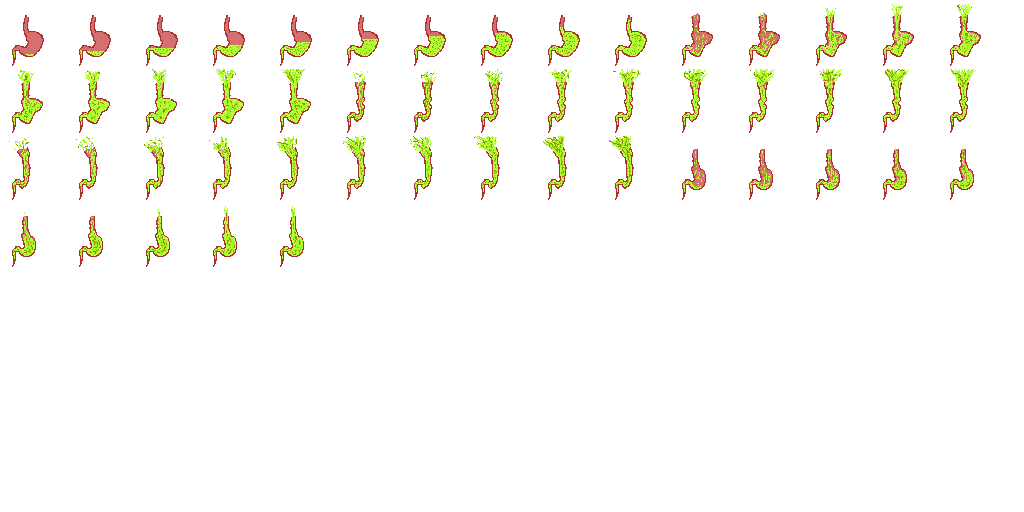
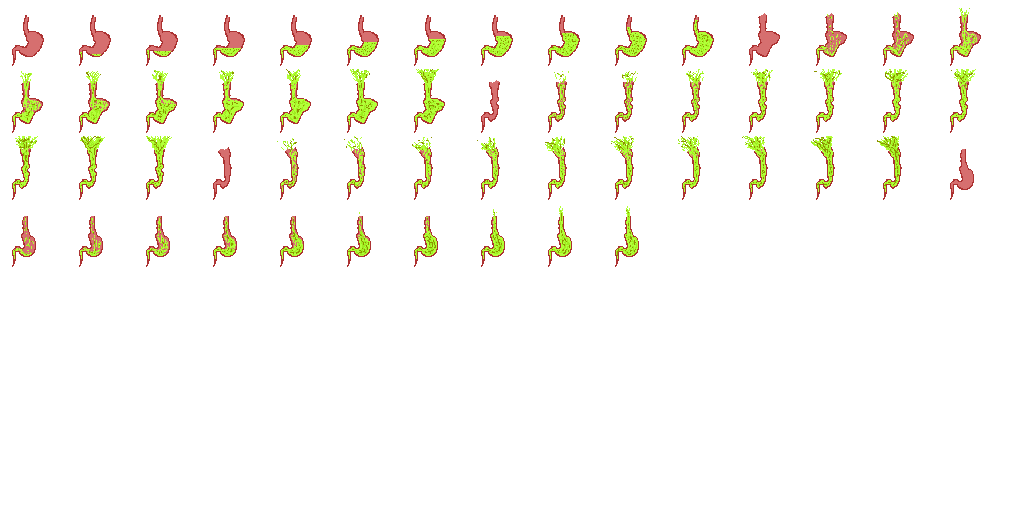
Make StomachMeter display completely empty state.

diff --git a/src/stomach-meter.js b/src/stomach-meter.js
@@ -16,51 +16,56 @@ define([
         this.fullness = 1; // 1=100%
         
         // Set up animations.
-        this.animations.add('idle10',  [0], 15);
-        this.animations.add('idle20',  [1], 15);
-        this.animations.add('idle30',  [2], 15);
-        this.animations.add('idle40',  [3], 15);
-        this.animations.add('idle50',  [4], 15);
-        this.animations.add('idle60',  [5], 15);
-        this.animations.add('idle70',  [6], 15);
-        this.animations.add('idle80',  [7], 15);
-        this.animations.add('idle90',  [8], 15);
-        this.animations.add('idle100', [9], 15);
+        this.animations.add('idle0',   [0], 15);
+        this.animations.add('idle10',  [1], 15);
+        this.animations.add('idle20',  [2], 15);
+        this.animations.add('idle30',  [3], 15);
+        this.animations.add('idle40',  [4], 15);
+        this.animations.add('idle50',  [5], 15);
+        this.animations.add('idle60',  [6], 15);
+        this.animations.add('idle70',  [7], 15);
+        this.animations.add('idle80',  [8], 15);
+        this.animations.add('idle90',  [9], 15);
+        this.animations.add('idle100', [10], 15);
         
-        this.animations.add('start-squeeze10',  [10], 15);
-        this.animations.add('start-squeeze20',  [11], 15);
-        this.animations.add('start-squeeze30',  [12], 15);
-        this.animations.add('start-squeeze40',  [13], 15);
-        this.animations.add('start-squeeze50',  [14], 15);
-        this.animations.add('start-squeeze60',  [15], 15);
-        this.animations.add('start-squeeze70',  [16], 15);
-        this.animations.add('start-squeeze80',  [17], 15);
-        this.animations.add('start-squeeze90',  [18], 15);
-        this.animations.add('start-squeeze100', [19], 15);
+        this.animations.add('start-squeeze0',   [11], 15);
+        this.animations.add('start-squeeze10',  [12], 15);
+        this.animations.add('start-squeeze20',  [13], 15);
+        this.animations.add('start-squeeze30',  [14], 15);
+        this.animations.add('start-squeeze40',  [15], 15);
+        this.animations.add('start-squeeze50',  [16], 15);
+        this.animations.add('start-squeeze60',  [17], 15);
+        this.animations.add('start-squeeze70',  [18], 15);
+        this.animations.add('start-squeeze80',  [19], 15);
+        this.animations.add('start-squeeze90',  [20], 15);
+        this.animations.add('start-squeeze100', [21], 15);
         
-        this.animations.add('squeeze10',  [20,30], 15);
-        this.animations.add('squeeze20',  [21,31], 15);
-        this.animations.add('squeeze30',  [22,32], 15);
-        this.animations.add('squeeze40',  [23,33], 15);
-        this.animations.add('squeeze50',  [24,34], 15);
-        this.animations.add('squeeze60',  [25,35], 15);
-        this.animations.add('squeeze70',  [26,36], 15);
-        this.animations.add('squeeze80',  [27,37], 15);
-        this.animations.add('squeeze90',  [28,38], 15);
-        this.animations.add('squeeze100', [29,39], 15);
+        this.animations.add('squeeze0',   [22,33], 15);
+        this.animations.add('squeeze10',  [23,34], 15);
+        this.animations.add('squeeze20',  [24,35], 15);
+        this.animations.add('squeeze30',  [25,36], 15);
+        this.animations.add('squeeze40',  [26,37], 15);
+        this.animations.add('squeeze50',  [27,38], 15);
+        this.animations.add('squeeze60',  [28,39], 15);
+        this.animations.add('squeeze70',  [29,40], 15);
+        this.animations.add('squeeze80',  [30,41], 15);
+        this.animations.add('squeeze90',  [31,42], 15);
+        this.animations.add('squeeze100', [32,43], 15);
         
-        this.animations.add('release10',  [20,30,40], 15);
-        this.animations.add('release20',  [21,31,41], 15);
-        this.animations.add('release30',  [22,32,42], 15);
-        this.animations.add('release40',  [23,33,43], 15);
-        this.animations.add('release50',  [24,34,44], 15);
-        this.animations.add('release60',  [25,35,45], 15);
-        this.animations.add('release70',  [26,36,46], 15);
-        this.animations.add('release80',  [27,37,47], 15);
-        this.animations.add('release90',  [28,38,48], 15);
-        this.animations.add('release100', [29,39,49], 15);
+        this.animations.add('release0',   [22,33,44], 15);
+        this.animations.add('release10',  [23,34,45], 15);
+        this.animations.add('release20',  [24,35,46], 15);
+        this.animations.add('release30',  [25,36,47], 15);
+        this.animations.add('release40',  [26,37,48], 15);
+        this.animations.add('release50',  [27,38,49], 15);
+        this.animations.add('release60',  [28,39,50], 15);
+        this.animations.add('release70',  [29,40,51], 15);
+        this.animations.add('release80',  [30,41,52], 15);
+        this.animations.add('release90',  [31,42,53], 15);
+        this.animations.add('release100', [32,43,54], 15);
         
         // Set up automatic animation transitions.
+        this.animations.getAnimation('squeeze0')  .onComplete.add(this.releaseSqueeze, this);
         this.animations.getAnimation('squeeze10') .onComplete.add(this.releaseSqueeze, this);
         this.animations.getAnimation('squeeze20') .onComplete.add(this.releaseSqueeze, this);
         this.animations.getAnimation('squeeze30') .onComplete.add(this.releaseSqueeze, this);
@@ -72,6 +77,7 @@ define([
         this.animations.getAnimation('squeeze90') .onComplete.add(this.releaseSqueeze, this);
         this.animations.getAnimation('squeeze100').onComplete.add(this.releaseSqueeze, this);
         
+        this.animations.getAnimation('release0')  .onComplete.add(this.setIdle, this);
         this.animations.getAnimation('release10') .onComplete.add(this.setIdle, this);
         this.animations.getAnimation('release20') .onComplete.add(this.setIdle, this);
         this.animations.getAnimation('release30') .onComplete.add(this.setIdle, this);
@@ -118,21 +124,18 @@ define([
     StomachMeter.prototype.squeeze = function () {
         // Store % converted to a multiple of 10 for animation selection.
         var p = Math.ceil(this.fullness * 10) * 10;
-        if (p === 0) p = 10;
         this.animations.play('squeeze'+p);
     };
 
     StomachMeter.prototype.releaseSqueeze = function () {
         // Store % converted to a multiple of 10 for animation selection.
         var p = Math.ceil(this.fullness * 10) * 10;
-        if (p === 0) p = 10;
         this.animations.play('release'+p);
     };
 
     StomachMeter.prototype.setIdle = function () {
         // Store % converted to a multiple of 10 for animation selection.
         var p = Math.ceil(this.fullness * 10) * 10;
-        if (p === 0) p = 10;
         this.animations.play('idle'+p);
     };
 
